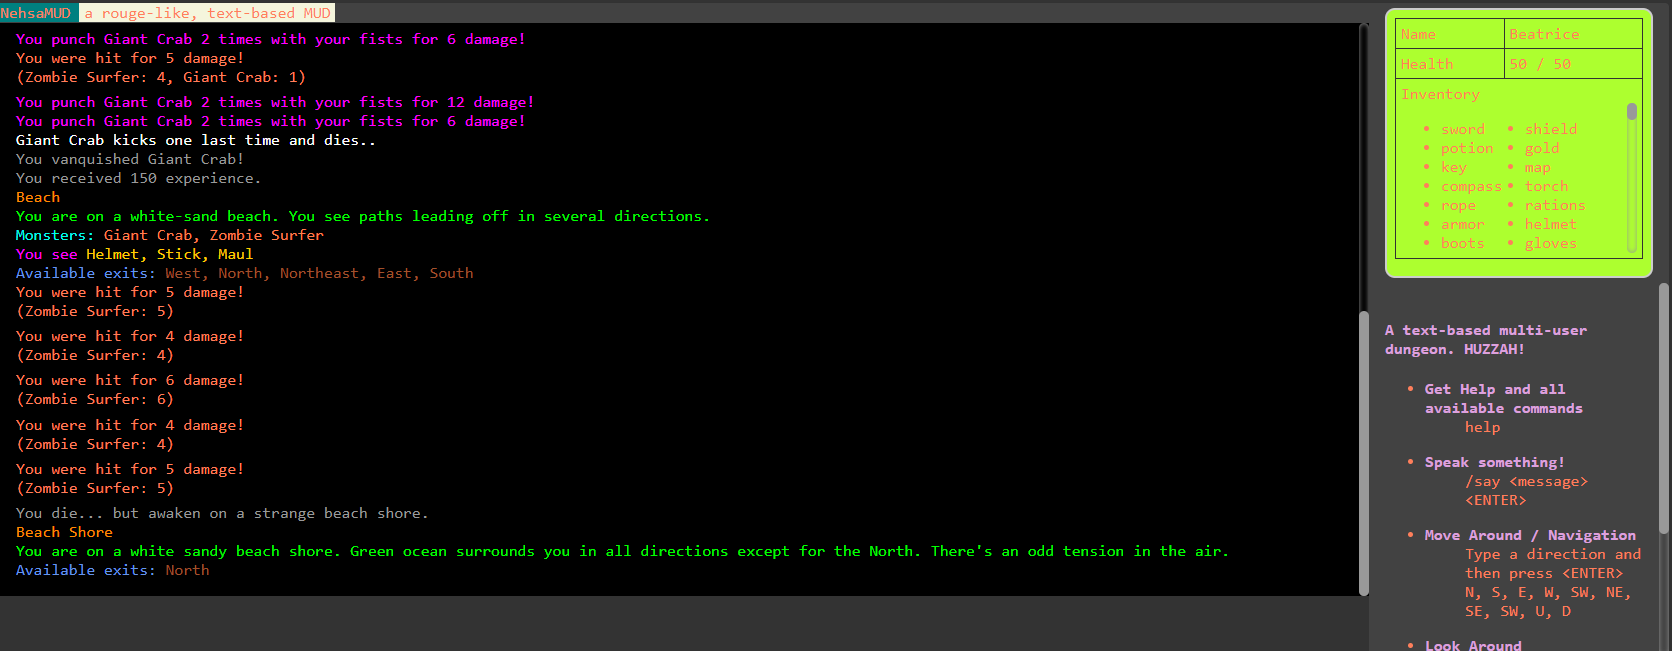
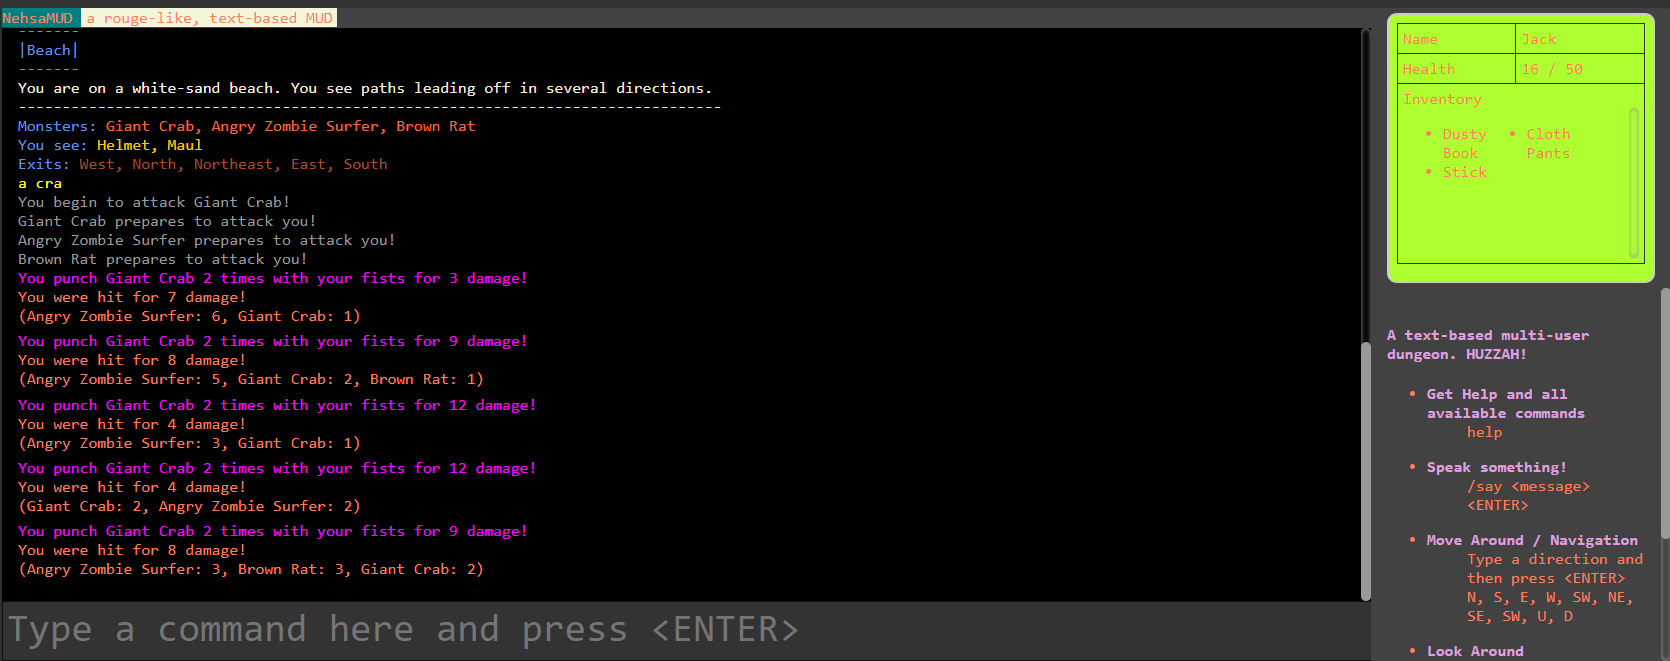
Mud style improvements

Changed region(s): [[0.0, 0.0, 1.0, 1.0], [0.8407, 0.9831, 0.9341, 1.0]]

diff --git a/src/app/main/mud/mud.component.ts b/src/app/main/mud/mud.component.ts
@@ -55,6 +55,7 @@ export class MudComponent {
     });
   }
 
+  /** Adds a border around the string */
   addBorder(message: string) {
     var desc = "";
     const descriptionLength = message.length;
@@ -68,6 +69,7 @@ export class MudComponent {
     return `${desc}<br>|${message}|<br>${desc}`
   }
 
+    /** Adds a bar under the string */
   addBar(message: string) {
     var desc = "";
     const descriptionLength = message.length;
@@ -81,6 +83,7 @@ export class MudComponent {
     return `${message}<br>${desc}`
   }
 
+  /** Colorize the message */
   colorizeMessage(message: string) {
     let colors: string[] = ["red", "green", "blue", "white", "yellow", "cyan", "magenta", "black", "gray", "grey",
       "orange", "purple", "brown", "pink", "teal", "maroon", "olive", "navy",
@@ -102,10 +105,6 @@ export class MudComponent {
 
   processCommand(data: MudEvent) {
     console.log("Processing command: " + data.type);
-    if (data.message != null && data.message != "") {
-      var mudEvent = data.message.split(',');
-      console.log(mudEvent);
-    }
     switch (data.type) {
       case 'request_hostname':
         console.log("Inside request_hostname switch");
@@ -140,8 +139,13 @@ export class MudComponent {
         }
         break;
       case 'inv':
-        console.log("Inside inv switch " + data.message);
-        //this.inventory = data.message;
+        var inventoryList = new Array<string>();
+        var items = data.message.toString().split(',');
+        items.forEach(o => {
+          console.log("item: " + o);
+          inventoryList.push(o);
+        });
+        this.inventory = inventoryList;
         break;
       case 'error':
         if (data.message != "") {
